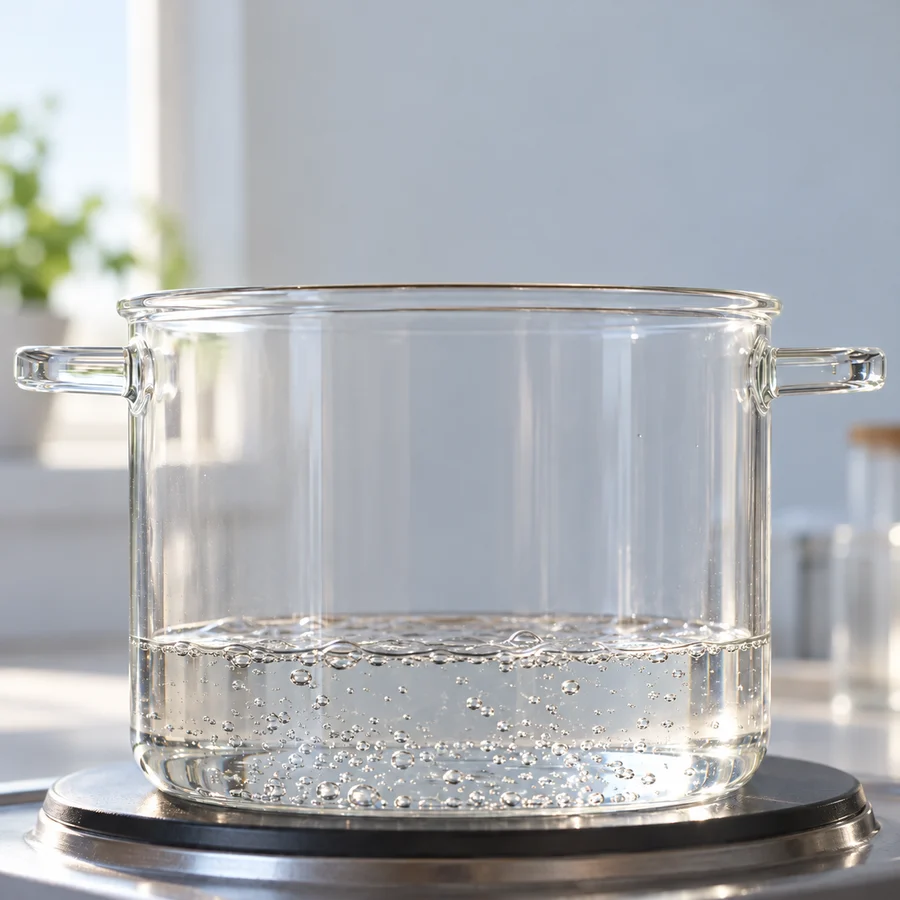
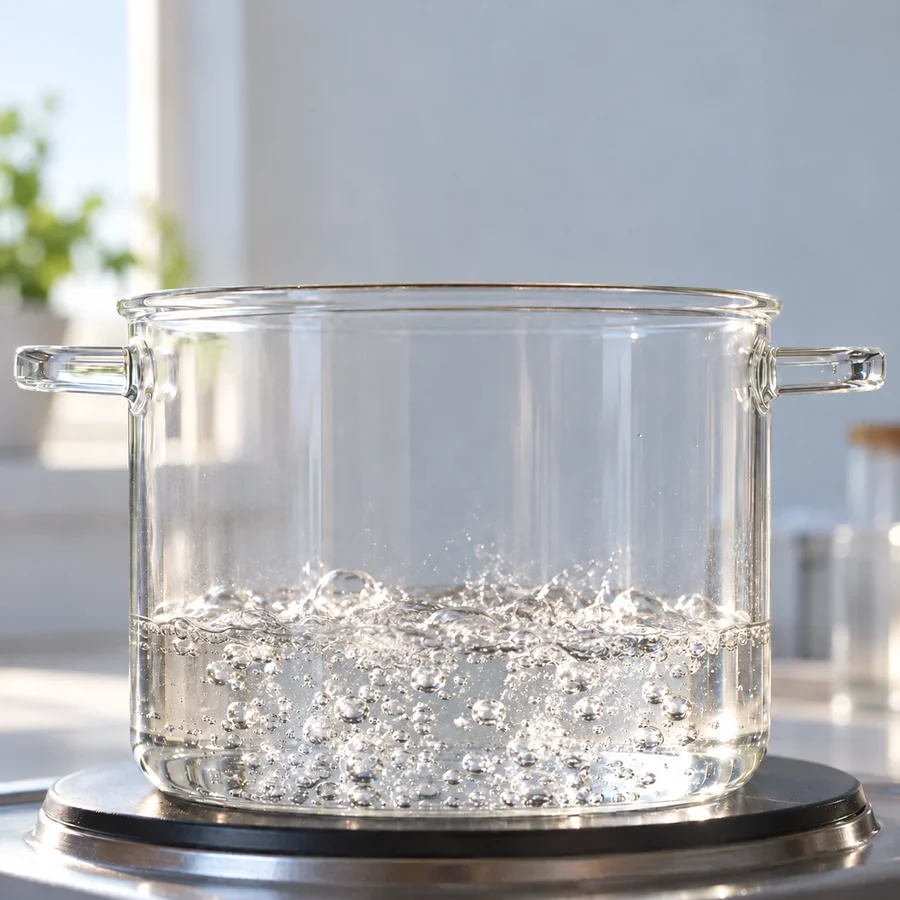
Use realistic boiling water image

diff --git a/units/4/parts/4.1/index.html b/units/4/parts/4.1/index.html
@@ -547,13 +547,9 @@
     .microscope-source--liquid { overflow:hidden; }
     .microscope-source--liquid img { object-fit:cover; transform:scale(1.2); }
     .microscope-source--boiling { overflow:hidden; }
-    .boiling-animation { position:absolute; z-index:1; top:4px; left:4px; width:calc(100% - 8px); aspect-ratio:1; overflow:hidden; pointer-events:none; }
-    .boiling-surface { position:absolute; top:71%; left:15%; width:70%; height:8px; border-top:2px solid rgb(255 255 255 / 88%); border-radius:50%; filter:drop-shadow(0 1px 1px rgb(55 115 129 / 48%)); animation:boiling-ripple 1.25s ease-in-out infinite alternate; }
-    .boiling-surface::after { content:""; position:absolute; top:2px; left:8%; width:84%; height:5px; border-top:1px solid rgb(255 255 255 / 68%); border-radius:50%; animation:boiling-ripple 1.65s ease-in-out -.5s infinite alternate-reverse; }
-    .boiling-bubble { position:absolute; bottom:10%; left:var(--bubble-x); width:var(--bubble-size,8px); aspect-ratio:1; border:1px solid rgb(255 255 255 / 96%); border-radius:50%; background:radial-gradient(circle at 32% 28%,#fff 0 12%,#c9edf2 30%,#7fb9c3 78%,#5796a6 100%); box-shadow:0 0 3px rgb(56 112 126 / 58%); opacity:0; animation:boiling-rise var(--bubble-duration,2.4s) ease-in infinite; animation-delay:var(--bubble-delay,0s); }
-    @keyframes boiling-rise { 0% { bottom:10%; opacity:0; transform:scale(.45); } 12% { opacity:.9; transform:scale(1); } 78% { opacity:.78; } 100% { bottom:27%; opacity:0; transform:scale(.72); } }
-    @keyframes boiling-ripple { from { transform:translateX(-3%) scaleX(.96); opacity:.55; } to { transform:translateX(3%) scaleX(1.04); opacity:1; } }
-    @media(prefers-reduced-motion:reduce) { .boiling-surface,.boiling-surface::after,.boiling-bubble { animation-duration:8s!important; } }
+    .boiling-filter-defs { position:absolute; width:0; height:0; overflow:hidden; }
+    .boiling-water-motion { position:absolute!important; z-index:1; top:4px; left:4px; width:calc(100% - 8px)!important; height:auto!important; aspect-ratio:1; object-fit:cover!important; clip-path:polygon(14% 68%,86% 68%,85% 82%,78% 91%,22% 91%,15% 82%); filter:url(#boiling-water-ripple); pointer-events:none; }
+    @media(prefers-reduced-motion:reduce) { .boiling-water-motion { display:none; } }
     .microscope-reveal { position:absolute; z-index:2; top:1px; left:1px; right:1px; height:370px; overflow:hidden; clip-path:circle(var(--lens-radius,0px) at var(--lens-x,50%) var(--lens-y,50%)); pointer-events:none; }
     .microscope-reveal svg { display:block; width:100%; height:100%; transform-origin:0 0; }
     .microscope-molecule-motion { transform-box:fill-box; transform-origin:center; }
@@ -987,7 +983,7 @@
                 <div class="microscope-source-row" aria-label="水的固態、液態和氣態樣本；聚焦樣本可查看放大的粒子模型">
                   <figure class="microscope-source" data-microscope-phase="ice" data-microscope="冰中的水分子：分子彼此靠近，排列較整齊。"><img src="assets/microscope-ice.webp" alt="白色瓷盤上的透明冰塊寫實照片"><span class="microscope-glass" role="slider" tabindex="0" aria-label="拖曳放大鏡觀察冰中的水分子；也可使用方向鍵移動" aria-valuemin="0" aria-valuemax="100" aria-valuenow="50"><span class="microscope-lens-content"></span></span><figcaption>固態・冰</figcaption></figure>
                   <figure class="microscope-source microscope-source--liquid" data-microscope-phase="liquid" data-microscope="液態水中的水分子：仍然彼此靠近，排列較不規則。"><img src="assets/microscope-water.webp" alt="透明玻璃杯中的清水寫實照片"><span class="microscope-glass" role="slider" tabindex="0" aria-label="拖曳放大鏡觀察液態水分子；也可使用方向鍵移動" aria-valuemin="0" aria-valuemax="100" aria-valuenow="50"><span class="microscope-lens-content"></span></span><figcaption>液態・水</figcaption></figure>
-                  <figure class="microscope-source microscope-source--boiling" data-microscope-phase="vapor" data-microscope="水蒸氣是看不見的氣體；動畫呈現水持續沸騰，鏡片中顯示氣態分子的模型。"><img src="assets/microscope-vapor.webp" alt="透明鍋中的水持續沸騰，水量維持不變；水蒸氣本身不可見"><span class="boiling-animation" aria-hidden="true"><span class="boiling-surface"></span><span class="boiling-bubble" style="--bubble-x:20%;--bubble-delay:-.2s;--bubble-size:8px"></span><span class="boiling-bubble" style="--bubble-x:26%;--bubble-delay:-1.1s;--bubble-size:7px;--bubble-duration:2.8s"></span><span class="boiling-bubble" style="--bubble-x:31%;--bubble-delay:-1.6s;--bubble-size:9px;--bubble-duration:2.8s"></span><span class="boiling-bubble" style="--bubble-x:39%;--bubble-delay:-.8s;--bubble-size:7px"></span><span class="boiling-bubble" style="--bubble-x:45%;--bubble-delay:-2.4s;--bubble-size:8px;--bubble-duration:2.7s"></span><span class="boiling-bubble" style="--bubble-x:51%;--bubble-delay:-.4s;--bubble-size:10px;--bubble-duration:2.9s"></span><span class="boiling-bubble" style="--bubble-x:59%;--bubble-delay:-1.9s;--bubble-size:7px"></span><span class="boiling-bubble" style="--bubble-x:66%;--bubble-delay:-.9s;--bubble-size:9px;--bubble-duration:2.7s"></span><span class="boiling-bubble" style="--bubble-x:72%;--bubble-delay:-.4s;--bubble-size:8px;--bubble-duration:2.9s"></span><span class="boiling-bubble" style="--bubble-x:79%;--bubble-delay:-2s;--bubble-size:7px"></span></span><span class="microscope-glass" role="slider" tabindex="0" aria-label="拖曳放大鏡觀察水蒸氣分子；也可使用方向鍵移動" aria-valuemin="0" aria-valuemax="100" aria-valuenow="50"><span class="microscope-lens-content"></span></span><figcaption>氣態・水蒸氣</figcaption></figure>
+                  <figure class="microscope-source microscope-source--boiling" data-microscope-phase="vapor" data-microscope="水蒸氣是看不見的氣體；影像呈現持續沸騰的水，鏡片中顯示氣態分子的模型。"><svg class="boiling-filter-defs" aria-hidden="true" focusable="false"><filter id="boiling-water-ripple" x="-8%" y="-8%" width="116%" height="116%"><feTurbulence type="fractalNoise" baseFrequency="0.012 0.022" numOctaves="1" seed="3"><animate attributeName="baseFrequency" values="0.012 0.022;0.02 0.032;0.012 0.022" dur="1.8s" repeatCount="indefinite"/></feTurbulence><feDisplacementMap in="SourceGraphic" scale="2.6" xChannelSelector="R" yChannelSelector="G"/></filter></svg><img src="assets/microscope-vapor.webp" alt="玻璃鍋中的少量水持續翻滾沸騰，鍋內保留較大的空間；水蒸氣本身不可見"><img class="boiling-water-motion" src="assets/microscope-vapor.webp" alt="" aria-hidden="true"><span class="microscope-glass" role="slider" tabindex="0" aria-label="拖曳放大鏡觀察水蒸氣分子；也可使用方向鍵移動" aria-valuemin="0" aria-valuemax="100" aria-valuenow="50"><span class="microscope-lens-content"></span></span><figcaption>氣態・水蒸氣</figcaption></figure>
                 </div>
                 <p class="microscope-instruction">照片呈現生活中的水；拖曳鏡片可看粒子模型（分子本身無法用肉眼看見）。</p>
 
